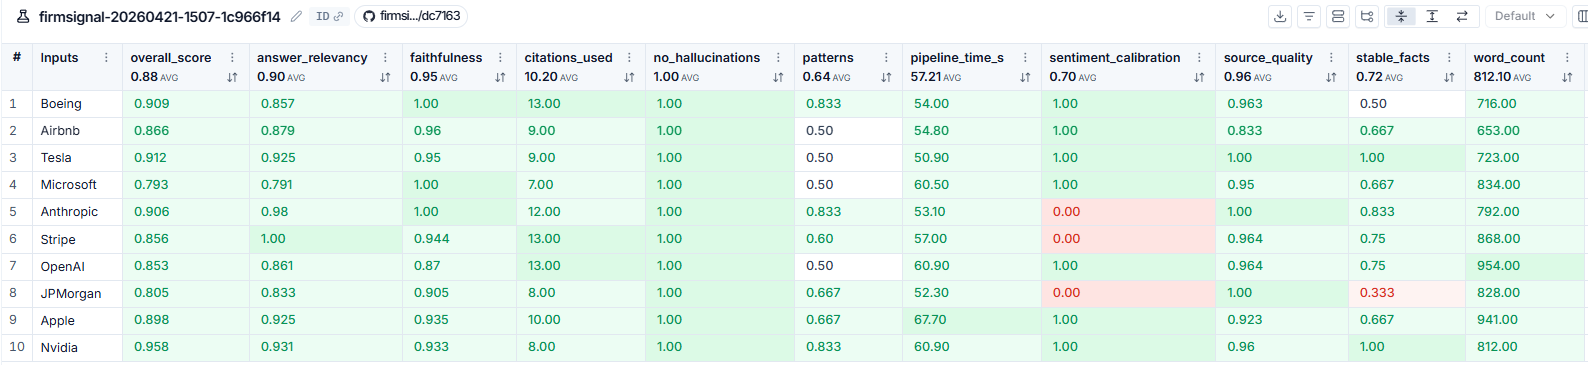
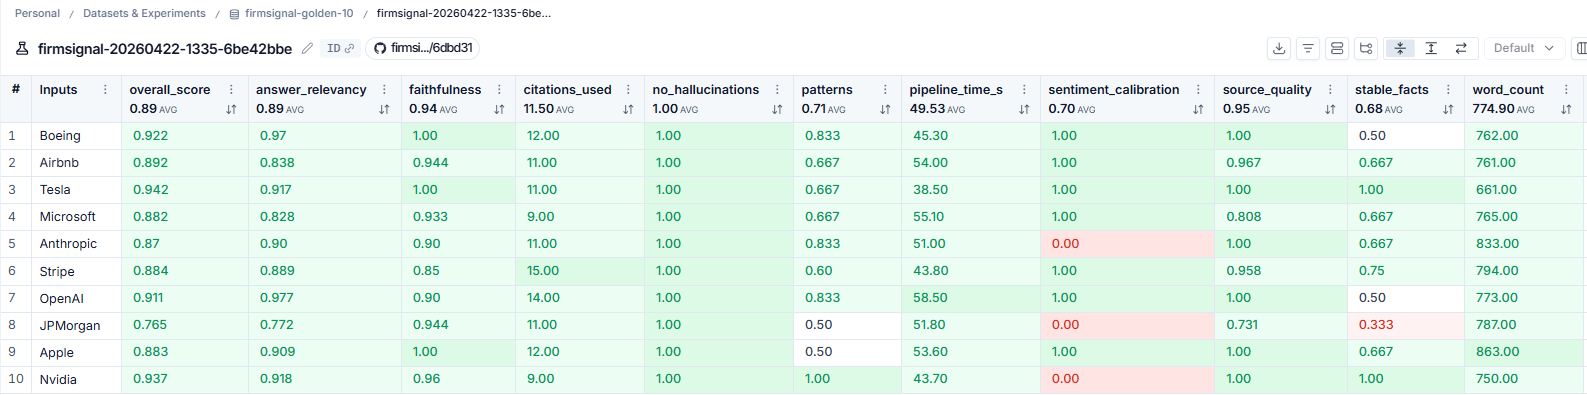
feat: parallel agent execution — scout/accountant/skeptic run simultaneously

diff --git a/backend/firmsignal/api/runner.py b/backend/firmsignal/api/runner.py
@@ -113,75 +113,86 @@ async def run_pipeline(record: RunRecord) -> None:
                 "note":     state["input_correction"],
             })
 
-        # ── 2. Scout ──────────────────────────────────────────────────────────────
+        # ── 2-4. Scout + Accountant + Skeptic (parallel fan-out) ─────────────────
         await _put(record, "agent_start", {
             "agent": "scout",
             "log":   "Searching for recent news and leadership changes...",
         })
-
-        result = await run_node(scout_node, "scout")
-        if result.get("error"):
-            await _error(record, result["error"])
-            return
-        state.update(result)
-
-        scout_out = state.get("scout_output") or {}
-        await _put(record, "agent_complete", {
-            "agent":  "scout",
-            "log":    (
-                f"Found {len(scout_out.get('news_items', []))} news items and "
-                f"{len(scout_out.get('leadership_changes', []))} leadership changes"
-            ),
-            "output": scout_out,
-        })
-
-        # ── 3. Accountant ─────────────────────────────────────────────────────────
         await _put(record, "agent_start", {
             "agent": "accountant",
             "log":   "Pulling financials and 5-year price history...",
         })
-
-        result = await run_node(accountant_node, "accountant")
-        if result.get("error"):
-            await _error(record, result["error"])
-            return
-        state.update(result)
-
-        acc = state.get("accountant_output") or {}
-        acc_log = (
-            f"Ticker: {acc.get('ticker')} · Cap: {acc.get('market_cap_formatted')} · "
-            f"{len(acc.get('price_history', []))} months of price data"
-            if acc.get("is_public")
-            else "Private company — no public market data"
-        )
-        await _put(record, "agent_complete", {
-            "agent":  "accountant",
-            "log":    acc_log,
-            "output": acc,
-        })
-
-        # ── 4. Skeptic ────────────────────────────────────────────────────────────
         await _put(record, "agent_start", {
             "agent": "skeptic",
             "log":   "Analysing sentiment, reviews, and risk signals...",
         })
 
-        result = await run_node(skeptic_node, "skeptic")
-        if result.get("error"):
-            await _error(record, result["error"])
-            return
-        state.update(result)
+        async def _run_scout():
+            r = await run_node(scout_node, "scout")
+            if not r.get("error"):
+                out = r.get("scout_output") or {}
+                await _put(record, "agent_complete", {
+                    "agent":  "scout",
+                    "log":    (
+                        f"Found {len(out.get('news_items', []))} news items and "
+                        f"{len(out.get('leadership_changes', []))} leadership changes"
+                    ),
+                    "output": out,
+                })
+            return r
+
+        async def _run_accountant():
+            r = await run_node(accountant_node, "accountant")
+            if not r.get("error"):
+                out = r.get("accountant_output") or {}
+                log = (
+                    f"Ticker: {out.get('ticker')} · Cap: {out.get('market_cap_formatted')} · "
+                    f"{len(out.get('price_history', []))} months of price data"
+                    if out.get("is_public")
+                    else "Private company — no public market data"
+                )
+                await _put(record, "agent_complete", {
+                    "agent":  "accountant",
+                    "log":    log,
+                    "output": out,
+                })
+            return r
+
+        async def _run_skeptic():
+            r = await run_node(skeptic_node, "skeptic")
+            if not r.get("error"):
+                out = r.get("skeptic_output") or {}
+                await _put(record, "agent_complete", {
+                    "agent":  "skeptic",
+                    "log":    (
+                        f"Sentiment: {out.get('sentiment_score', 0):+.2f} "
+                        f"({out.get('sentiment_label')}) · "
+                        f"{len(out.get('risk_flags', []))} risk flags"
+                    ),
+                    "output": out,
+                })
+            return r
+
+        scout_r, acc_r, skep_r = await asyncio.gather(
+            _run_scout(), _run_accountant(), _run_skeptic()
+        )
+
+        for r in (scout_r, acc_r, skep_r):
+            if r.get("error"):
+                await _error(record, r["error"])
+                return
+
+        state.update(scout_r)
+        state.update(acc_r)
+        state.update(skep_r)
+        # Merge sources from all three (each agent only sees the pre-run snapshot)
+        state["sources"] = (
+            scout_r.get("sources", []) +
+            acc_r.get("sources", []) +
+            skep_r.get("sources", [])
+        )
 
         skep = state.get("skeptic_output") or {}
-        await _put(record, "agent_complete", {
-            "agent":  "skeptic",
-            "log":    (
-                f"Sentiment: {skep.get('sentiment_score', 0):+.2f} "
-                f"({skep.get('sentiment_label')}) · "
-                f"{len(skep.get('risk_flags', []))} risk flags"
-            ),
-            "output": skep,
-        })
 
         # ── 5. HITL pause ─────────────────────────────────────────────────────────
         record.status    = RunStatus.PAUSED

diff --git a/backend/firmsignal/state.py b/backend/firmsignal/state.py
@@ -1,6 +1,16 @@
+import operator
 from typing import Annotated, TypedDict
 
 from langgraph.graph.message import add_messages
+
+
+def _merge_errors(a: str | None, b: str | None) -> str | None:
+    """Reducer for parallel branches that may each write an error or None."""
+    if a is None:
+        return b
+    if b is None:
+        return a
+    return f"{a}\n{b}"
 
 
 class FirmState(TypedDict):
@@ -24,10 +34,12 @@ class FirmState(TypedDict):
     final_brief: str | None
 
     # All source URLs collected across all agents — used for citation injection
-    sources: list[dict]
+    # operator.add merges lists from parallel branches without conflict
+    sources: Annotated[list[dict], operator.add]
 
     # LangGraph message history (required for streaming)
     messages: Annotated[list, add_messages]
 
     # Captures agent failures without crashing the graph
-    error: str | None
+    # _merge_errors handles concurrent writes from parallel branches
+    error: Annotated[str | None, _merge_errors]

diff --git a/backend/firmsignal/graph.py b/backend/firmsignal/graph.py
@@ -37,8 +37,10 @@ def create_graph():
 
     graph.set_entry_point("normalizer")
     graph.add_edge("normalizer",  "scout")
-    graph.add_edge("scout",       "accountant")
-    graph.add_edge("accountant",  "skeptic")
+    graph.add_edge("normalizer",  "accountant")
+    graph.add_edge("normalizer",  "skeptic")
+    graph.add_edge("scout",       "hitl")
+    graph.add_edge("accountant",  "hitl")
     graph.add_edge("skeptic",     "hitl")
     graph.add_conditional_edges("hitl", _route_after_hitl)
     graph.add_edge("synthesizer", END)

diff --git a/backend/firmsignal/tools/source_quality.py b/backend/firmsignal/tools/source_quality.py
@@ -1,4 +1,4 @@
-import html
+import html
 import re
 from urllib.parse import urlparse
 

diff --git a/README.md b/README.md
@@ -107,28 +107,31 @@ schemas and try-it-out for every endpoint.
 
 ## Observability
 
-Every pipeline run produces a unified LangSmith trace showing all six nodes — including the Synthesizer after HITL approval — with per-agent token counts, latency, and cost visible at the top level.
+Every pipeline run produces a unified LangSmith trace showing all six
+nodes — including the Synthesizer after HITL approval — with per-agent
+token counts, latency, and cost visible at the top level.
 
-<!-- ============================================================
-     SCREENSHOT GOES HERE
-     1. Go to smith.langchain.com
-     2. Open a completed pipeline run (e.g. FirmSignal — Microsoft)
-     3. Expand all nodes so the full tree is visible:
-          FirmSignal — Microsoft  (84.98s, 20.7K, $0.058)
-            normalizer
-            scout
-            accountant
-            skeptic
-            hitl  (shows human wait time e.g. 5.02s)
-            synthesizer
-     4. Take a screenshot
-     5. Save as: docs/langsmith_trace.png
-     6. Uncomment the line below
-     ============================================================ -->
+### Pipeline trace (tree view)
 
 ![LangSmith unified pipeline trace](docs/langsmith_trace.png)
 
-The `hitl` node latency shows how long the human spent on the review screen — a detail that surfaces in every production trace. Eval runs are isolated to a separate `firmsignal-evals` LangSmith project so production traces stay clean.
+The `hitl` node latency shows how long the human spent on the review
+screen. All six nodes appear under a single parent trace so token
+counts and cost are summed at the top level.
+
+### Parallel execution (waterfall view)
+
+![LangSmith waterfall — parallel agent execution](docs/langsmith_trace_waterfall.png)
+
+Scout, Accountant, and Skeptic run simultaneously after the Normalizer
+completes. The waterfall shows all three starting within 1-2 seconds
+of each other — total research time is determined by the slowest agent
+rather than the sum of all three. This reduced average pipeline time
+from 57s to 49s (-14%) with no meaningful quality degradation across
+10 eval companies.
+
+Eval runs are isolated to a separate `evaluators` LangSmith
+project so production traces stay clean.
 
 ---
 
@@ -155,7 +158,8 @@ Automated eval suite across 10 gold standard companies using a two-layer approac
 
 
 
-## Eval Results — April 2026
+## Eval Results — April 2026 (parallel execution, 10 companies):
+
 
 | Metric | Score |
 |---|---|
@@ -166,6 +170,19 @@ Automated eval suite across 10 gold standard companies using a two-layer approac
 | Avg pipeline time | 57s |
 | Avg words per brief | 812 |
 | Avg citations used | 10.2 |
+
+| Summary metric | Sequential | Parallel | Change |
+|---|---|---|---|
+| Overall average | 87.6 / 100 | 89.0 / 100 | +1.4 |
+| Avg pipeline time | 57s | 49s | **−14%** |
+| No hallucinations | 10 / 10 | 10 / 10 | — |
+| Faithfulness (DeepEval) | 0.95 | 0.94 | −0.01 |
+| Answer Relevancy (DeepEval) | 0.89 | 0.89 | — |
+
+Parallel execution (Scout + Accountant + Skeptic running 
+simultaneously) reduced pipeline time by 14% with no meaningful 
+quality degradation. No hallucinations across all 10 companies 
+in both configurations.
 
 > Update these numbers after running: `cd backend && uv run python -m evals.run_evals`
 